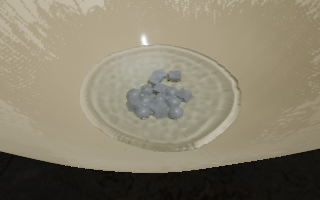
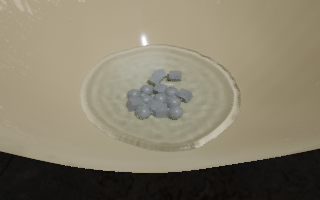
perf(034): T066d — a deposição sem a distância ao sólido por ponto do disco (o passo tira a célula no ar), a inclinação só nos sólidos, um passe por etapa da película; lago regravado
O estado das partículas do lago no parametricSurfaces muda pelo ancoramento da gota solta pela SurfacePhysics (sem os
25° fixos); cáusticas 6,8 % / 8,4 %.

Claude-Session: https://claude.ai/code/session_015NtZ5D3phr8urRhrPuP6ZA

diff --git a/src/elements/fields/FluidFieldFlow.ts b/src/elements/fields/FluidFieldFlow.ts
@@ -492,10 +492,17 @@ export class FluidFieldFlow extends Flow<FluidFieldSlots, 'idle'> {
         const data = this.buffer(field, 'data');
         if (this.filmAdvances && film !== undefined && data !== undefined) {
             frame.clear(film);
-            frame.compute('FluidFieldFlow.film', (pass) => {
+            // Um passe por etapa: o perfilador mede cada uma.
+            frame.compute('FluidFieldFlow.film.pressure', (pass) => {
                 this.run(pass, at(FILM_PRESSURE), FIELD_FILM_CELLS, W);
+            });
+            frame.compute('FluidFieldFlow.film.step', (pass) => {
                 this.run(pass, at(FILM_STEP), FIELD_FILM_CELLS, W);
+            });
+            frame.compute('FluidFieldFlow.film.drip', (pass) => {
                 this.run(pass, at(FILM_DRIP), FIELD_FILM_CELLS, W);
+            });
+            frame.compute('FluidFieldFlow.film.deposit', (pass) => {
                 this.run(pass, at(FILM_DEPOSIT), this.particles, W);
                 // Os pingos voltam ao pool do corpo de cada um (T066d).
                 this.order.forEach((b, i) => {

diff --git a/src/elements/fields/shaders.ts b/src/elements/fields/shaders.ts
@@ -418,7 +418,6 @@ export const fieldFilmDeposit = wgslModule({
         fieldCommon,
         fieldFilm,
         fieldFilmUpdate,
-        fieldFilmSolid,
         basis,
         R.sorted,
         R.sortedContacts,
